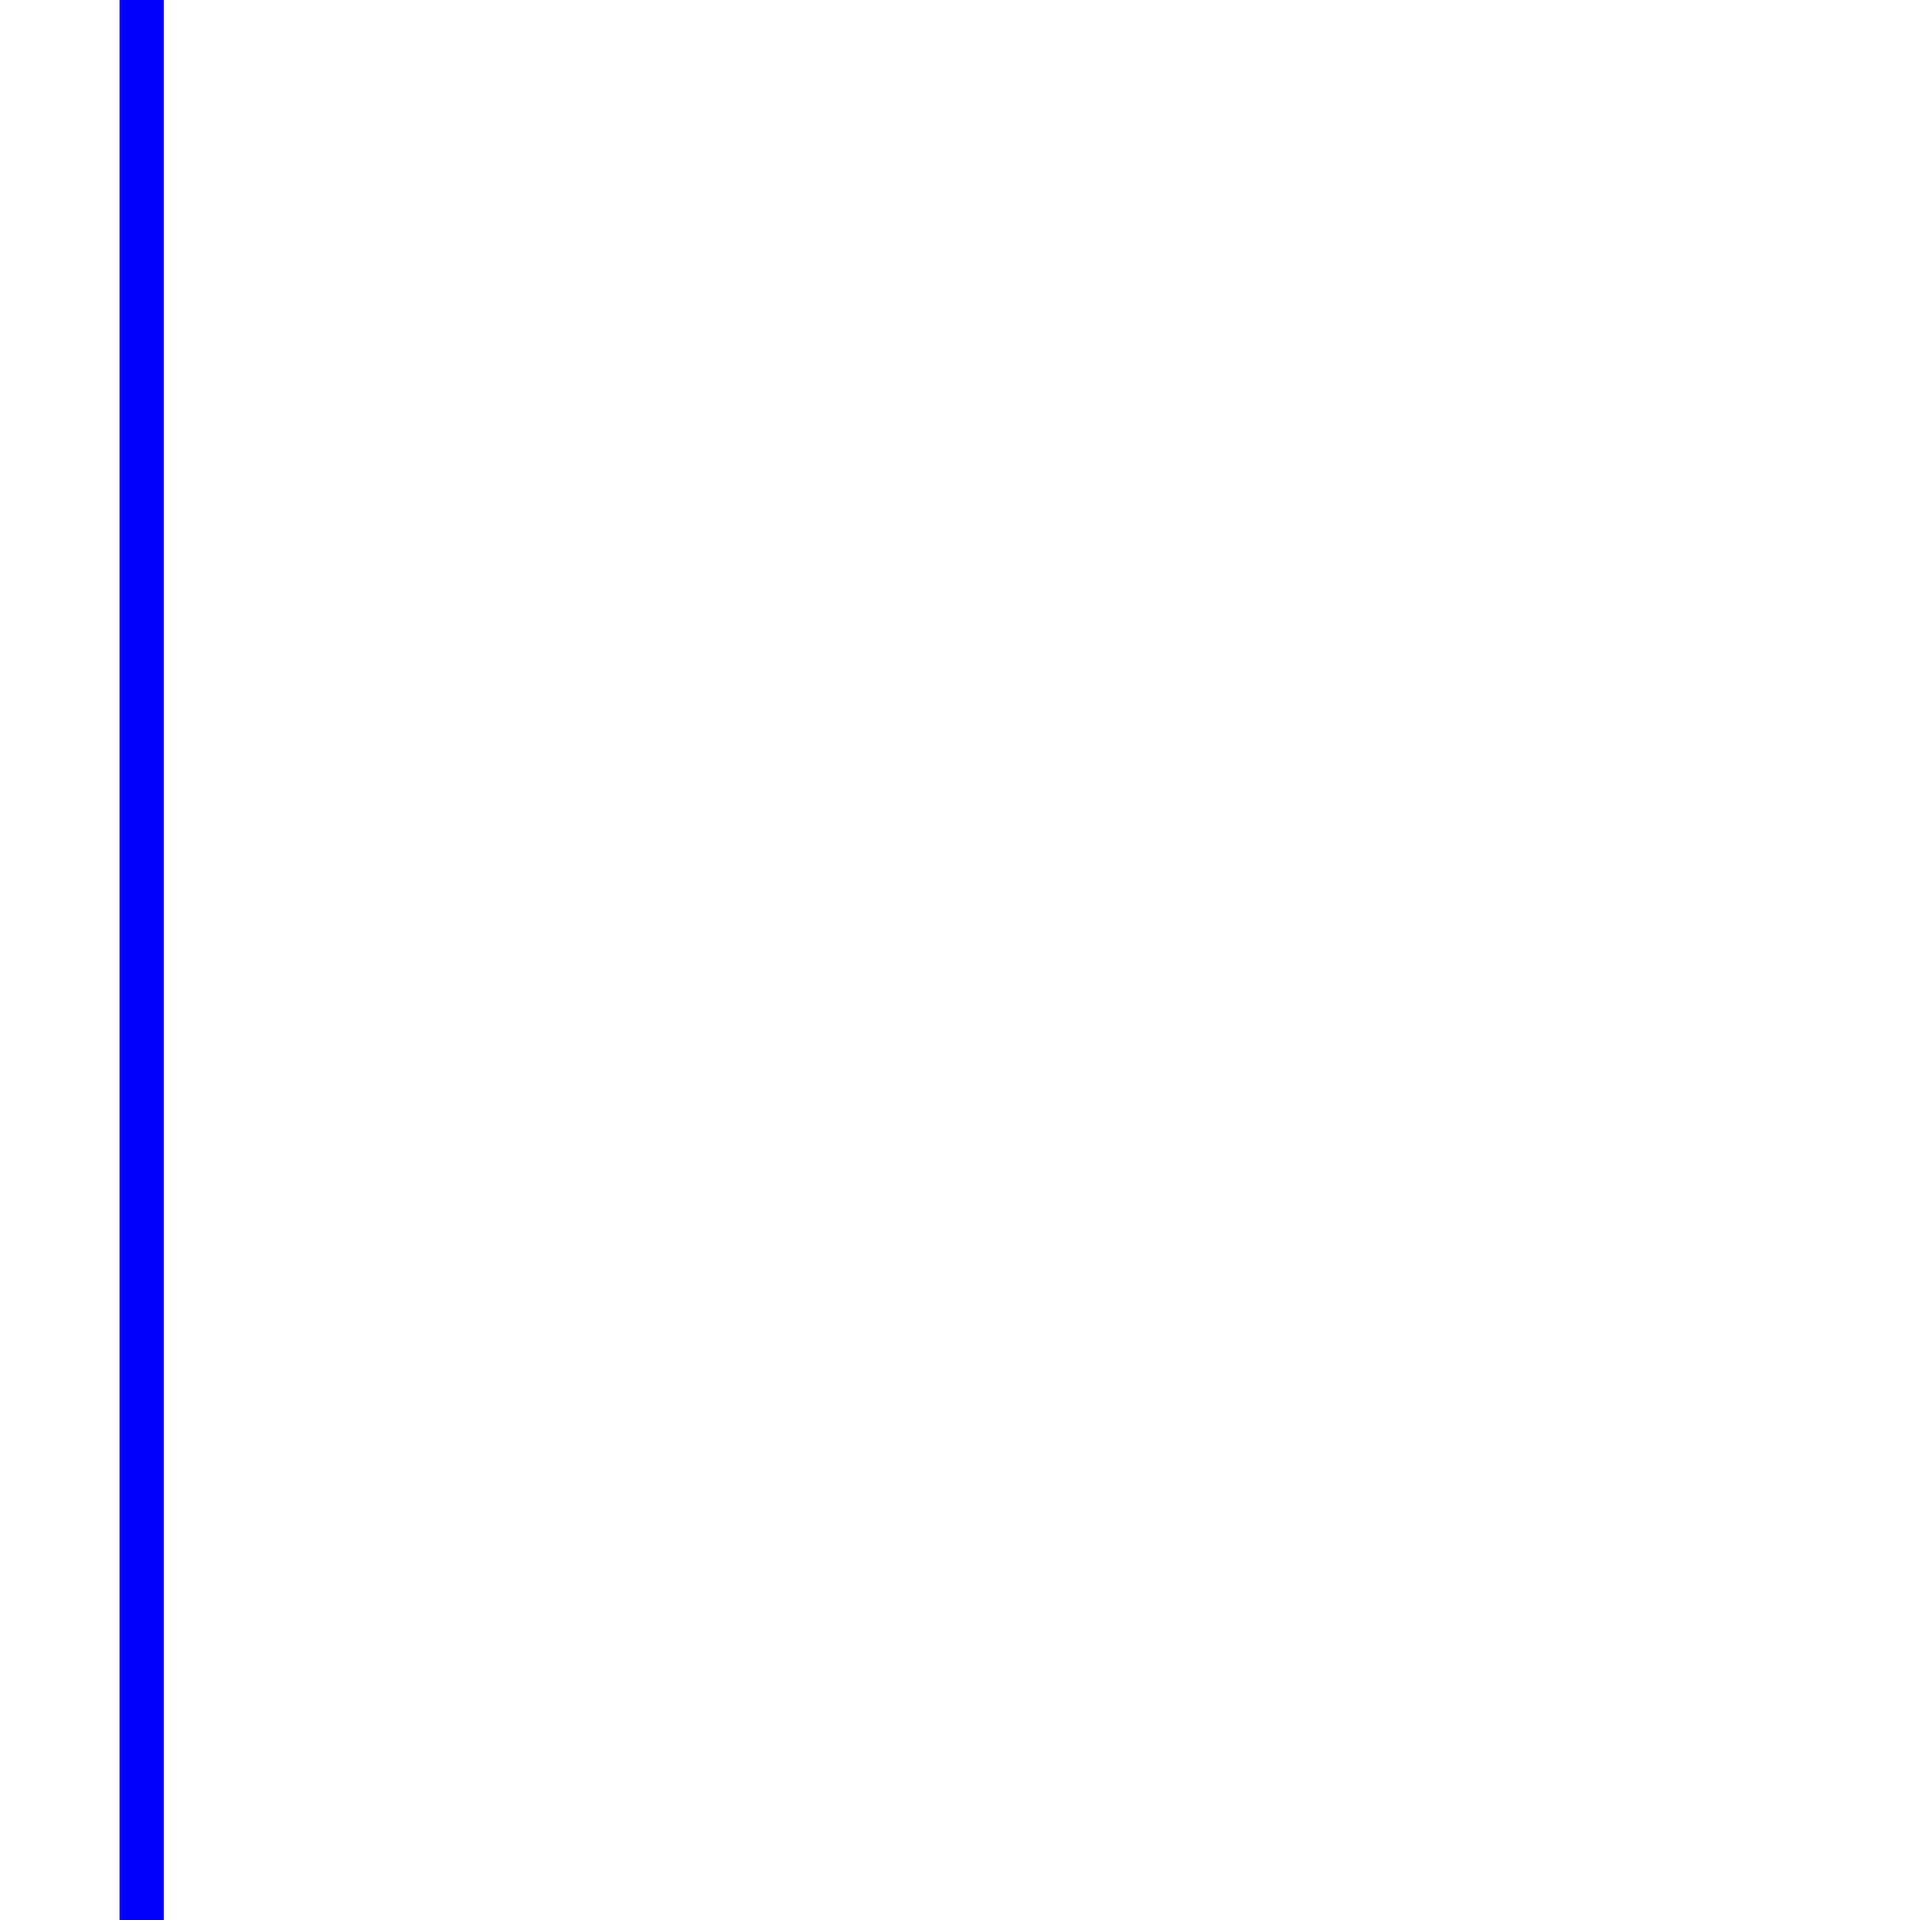
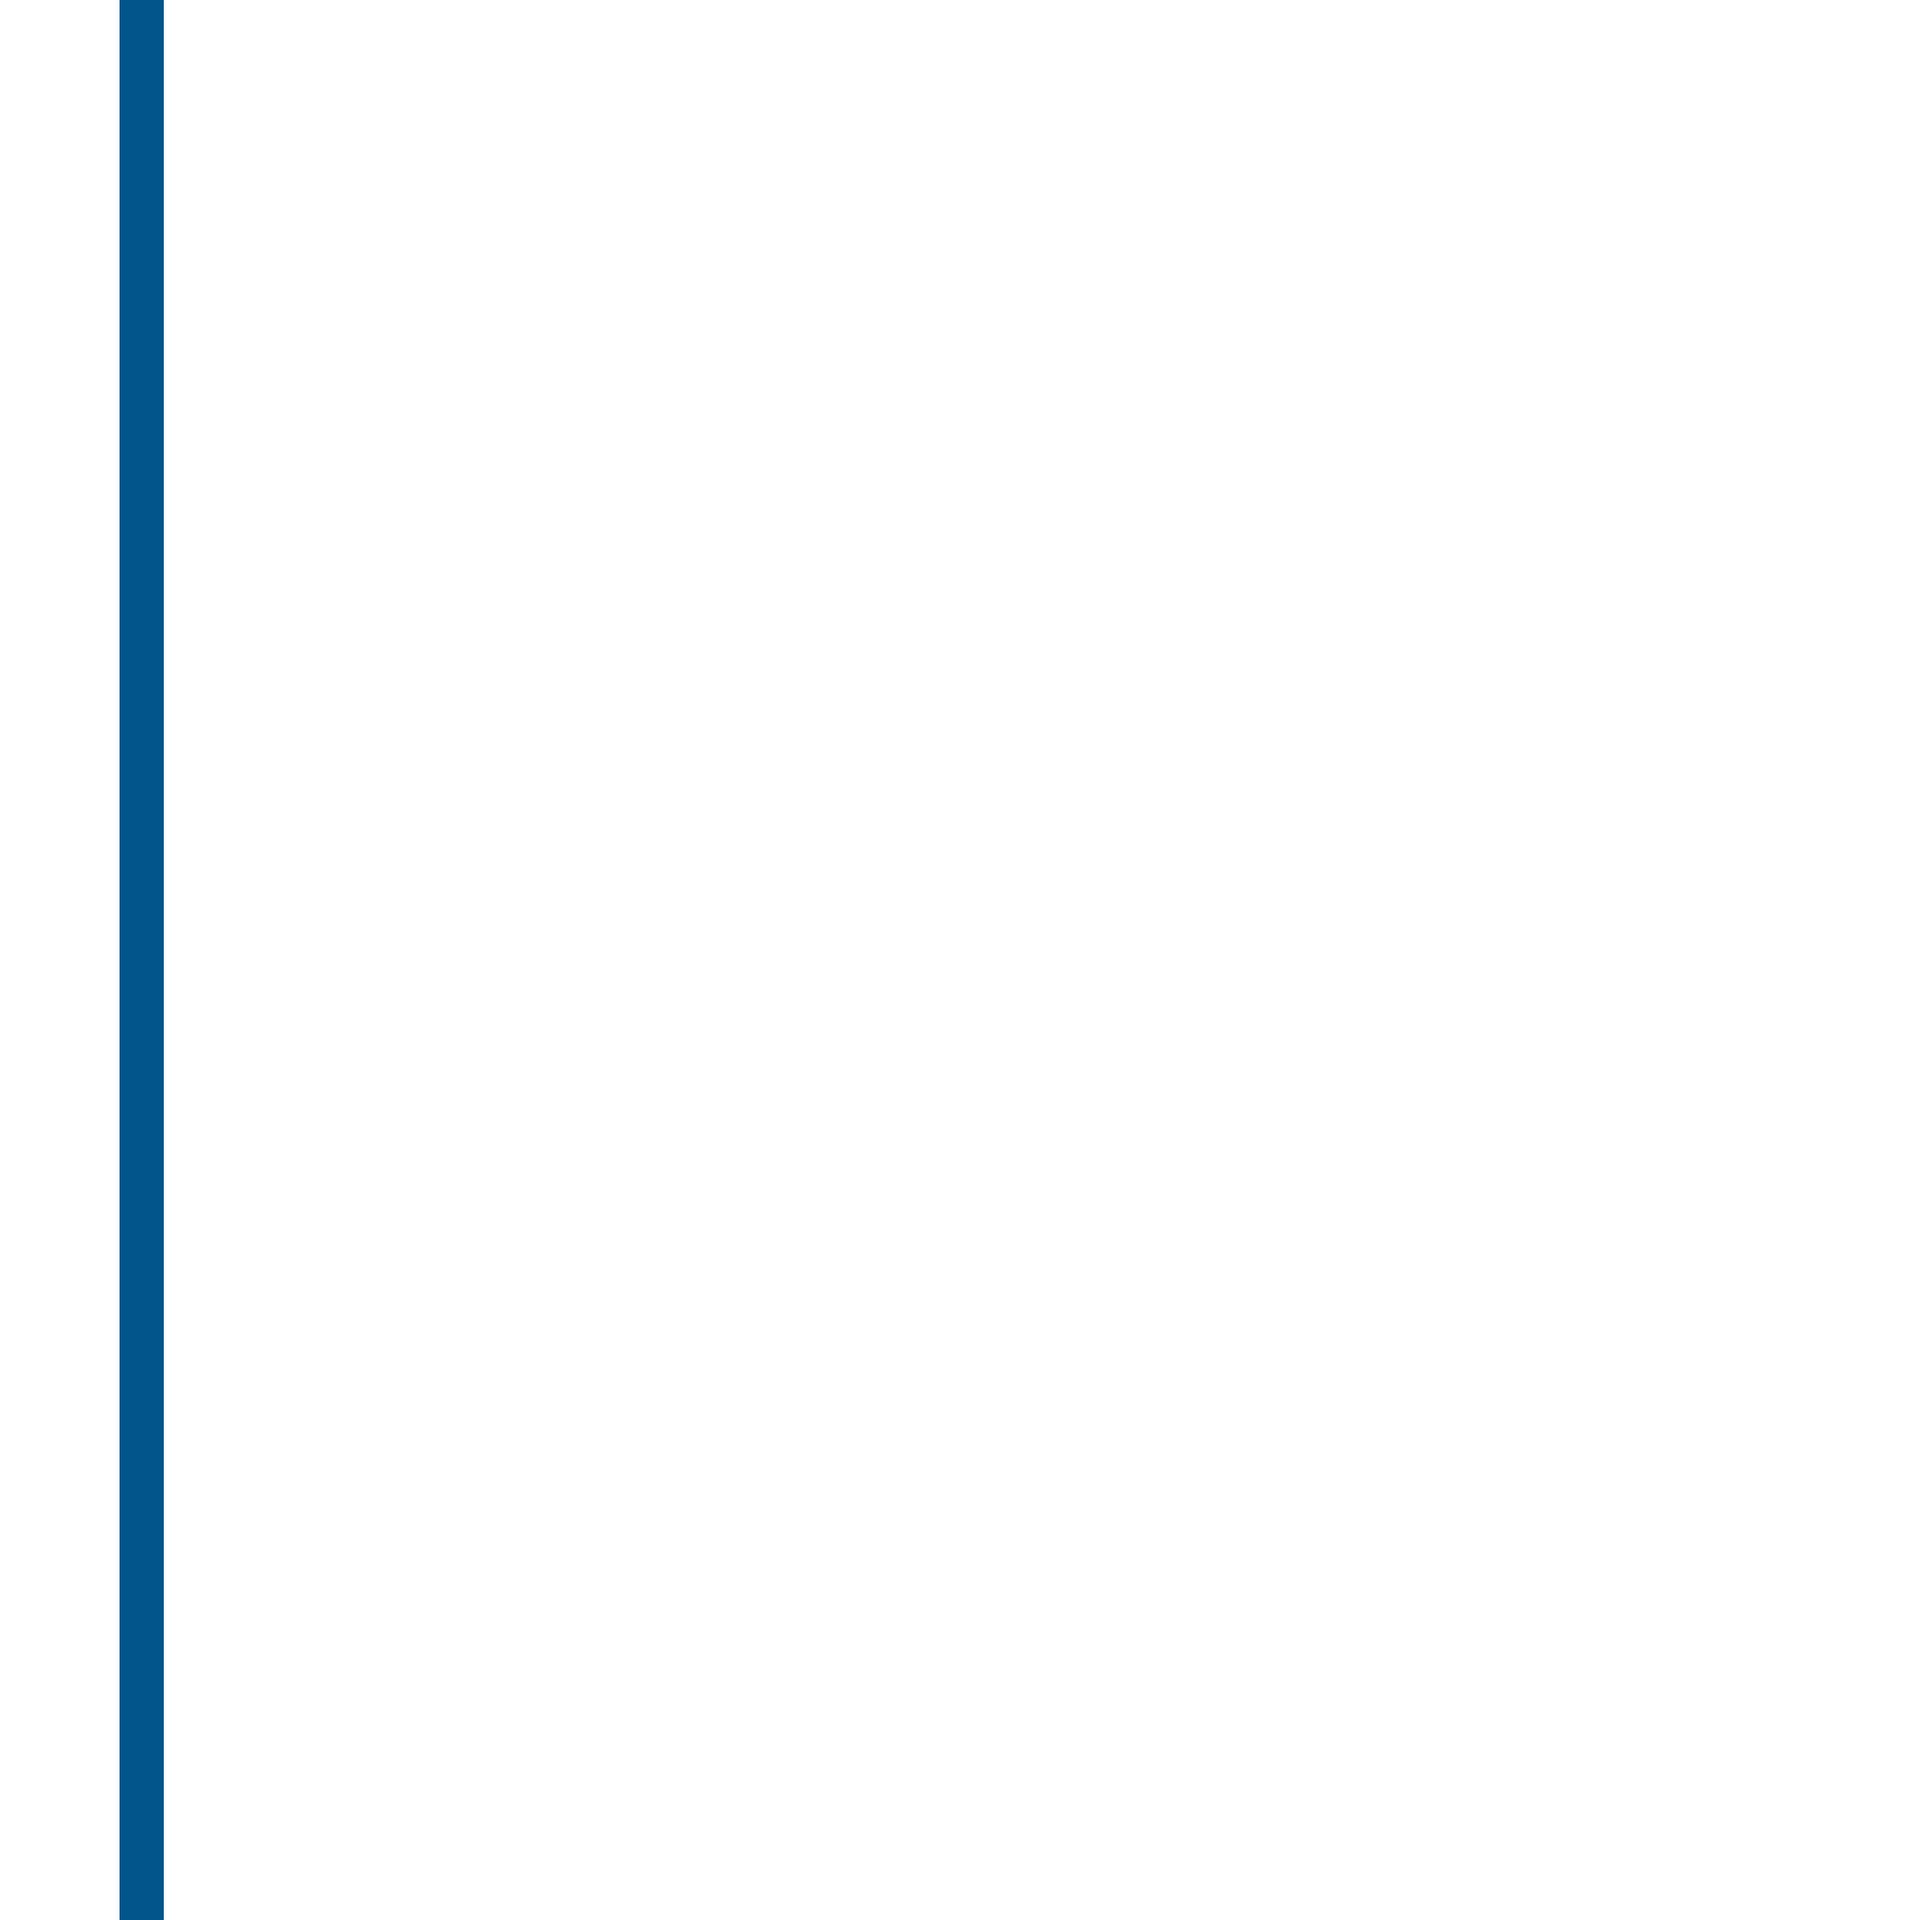
test

Changed region(s): [[0.0618, 0.0, 0.0926, 1.0]]

diff --git a/index.html b/index.html
@@ -55,7 +55,7 @@
             </div>
         </div>
 
-        <div class="row justify-content-start justify-content-md-center align-content-center section p-0 pb-5"
+        <div class="row justify-content-start justify-content-md-center align-content-center section p-0 pb-5 standardbg2"
             id="about">
             <div class="col-12 col-lg-5 d-flex align-items-center hideori fadefromleft2">
                 <div class="row p-0 m-0 justify-content-start justify-content-lg-center align-content-center">
@@ -141,11 +141,11 @@
             </div>
         </div>
 
-        <div class="row justify-content-center align-content-center section p-0 pt-5 pb-5 standardbg2" id="joinus">
-            <div class="col-10 col-md-10 text-center headerstyle contentshadow pt-4 pb-4 hideori fadefromtop2">
-                <h1 class="highlightv2">Live Stage</h1>
+        <div class="row justify-content-center align-content-center section p-0 pt-5 pb-5 standardbg3" id="joinus">
+            <div class="col-10 col-md-10 text-center  pt-4 pb-4 hideori fadefromtop2">
+                <h1 class="highlightv1">Live Stage</h1>
                 <h5>Join the World Engineering Day 2022 virtually here by watching the livestream below at the
-                    <a href="#schedule" class="highlightv2">designated time.</a>
+                    <a href="#schedule" class="highlightv1">designated time.</a>
                 </h5>
             </div>
             <div class="col-sm-7 col-10  p-0 mt-4 hideori fadefromtop3">
@@ -161,7 +161,7 @@
             </div>
         </div>
 
-        <div class="row justify-content-start justify-content-md-center align-content-center section p-0 pb-5 pt-5"
+        <div class="row justify-content-start justify-content-md-center align-content-center section p-0 pb-5 pt-5 standardbg4"
             id="schedule">
             <div class="col-12 col-lg-5 d-flex align-items-start hideori fadefromleft2">
                 <div class="row p-0 m-0 justify-content-start justify-content-lg-center align-content-center">
@@ -177,28 +177,28 @@
                 <div class="row p-0 justify-content-start align-content-center">
 
 
-                    <div class="col-12 contentshadow d-flex align-items-center hideori fadefromleft3">
+                    <div class="col-12 contentshadowfancy1 d-flex align-items-center hideori fadefromleft3">
                         <div>
                             <h5>19 Feb - 1 Mar</h5>
                             <h4 class="highlightv1">Engineering Challenge 1</h4>
                             <p>Biomimicry Ideas for Sustainability. Suitable for college & university students.</p>
                         </div>
                     </div>
-                    <div class="col-12 contentshadow d-flex align-items-center mt-5 hideori fadefromleft2">
+                    <div class="col-12 contentshadowfancy2 d-flex align-items-center mt-5 hideori fadefromleft2">
                         <div>
                             <h5>19 Feb - 1 Mar</h5>
                             <h4 class="highlightv1">Engineering Challenge 1</h4>
                             <p>Paper Geodesic Dome. Suitable for school students.</p>
                         </div>
                     </div>
-                    <div class="col-12 contentshadow d-flex align-items-center mt-5 hideori fadefromleft4">
+                    <div class="col-12 contentshadowfancy4 d-flex align-items-center mt-5 hideori fadefromleft4">
                         <div>
                             <h5>0900 - 1220 | 4th Mar</h5>
                             <h4 class="highlightv1">World Engineering Day 2022 Forum and Quizes</h4>
                             <p>Suitable for Students, Teachers and Parents</p>
                         </div>
                     </div>
-                    <div class="col-12 contentshadow d-flex align-items-center mt-5 hideori fadefromleft2">
+                    <div class="col-12 contentshadowfancy3 d-flex align-items-center mt-5 hideori fadefromleft2">
                         <div>
                             <h5>1500 - 1730 | 4th Mar</h5>
                             <h4 class="highlightv1">World Engineering Day 2022 Forum and Panel Discussion</h4>
@@ -208,7 +208,7 @@
                         </div>
                     </div>
 
-                    <div class="col-12 contentshadow d-flex align-items-center mt-5 hideori fadefromleft3">
+                    <div class="col-12 contentshadowfancy2 d-flex align-items-center mt-5 hideori fadefromleft3">
                         <div>
                             <h5>0900 - 1230 | 5th Mar</h5>
                             <h4 class="highlightv1">Pocket Talk</h4>
@@ -217,7 +217,7 @@
                         </div>
                     </div>
 
-                    <div class="col-12 contentshadow d-flex align-items-center mt-5 hideori fadefromleft4">
+                    <div class="col-12 contentshadowfancy1 d-flex align-items-center mt-5 hideori fadefromleft4">
                         <div>
                             <h5>1430 - 1800 | 5th Mar</h5>
                             <h4 class="highlightv1">World Engineering Day 2022 Forum and Panel Discussion 2</h4>

diff --git a/main.css b/main.css
@@ -1,5 +1,5 @@
 :root{
-    --dark:#0100fc;
+    --dark:#02558b;
     --light: #04d8fe;
     --main:white;
     --darktext:black;
@@ -53,6 +53,22 @@ h1{
     background-repeat: no-repeat;
 }
 
+.standardbg3{
+    background-image:url("asset/img/bg/bg3.jpg");
+    background-size: cover;
+    background-attachment: fixed;
+    background-position:left;
+    background-repeat: no-repeat;
+}
+
+.standardbg4{
+    background-image:url("asset/img/bg/bg4.jpg");
+    background-size: cover;
+    background-attachment: fixed;
+    background-position:left;
+    background-repeat: no-repeat;
+}
+
 .secondbg{
     background-color: var(--dark);
     color: white;
@@ -73,6 +89,19 @@ h1{
 
 .contentshadowalt{
     box-shadow: 10px 10px var(--main);
+}
+
+.contentshadowfancy1{
+    box-shadow: 10px 10px #02558b;
+}
+.contentshadowfancy2{
+    box-shadow: 10px 10px #48783e;
+}
+.contentshadowfancy3{
+    box-shadow: 10px 10px #8f1838;
+}
+.contentshadowfancy4{
+    box-shadow: 10px 10px #e01487;
 }
 
 
